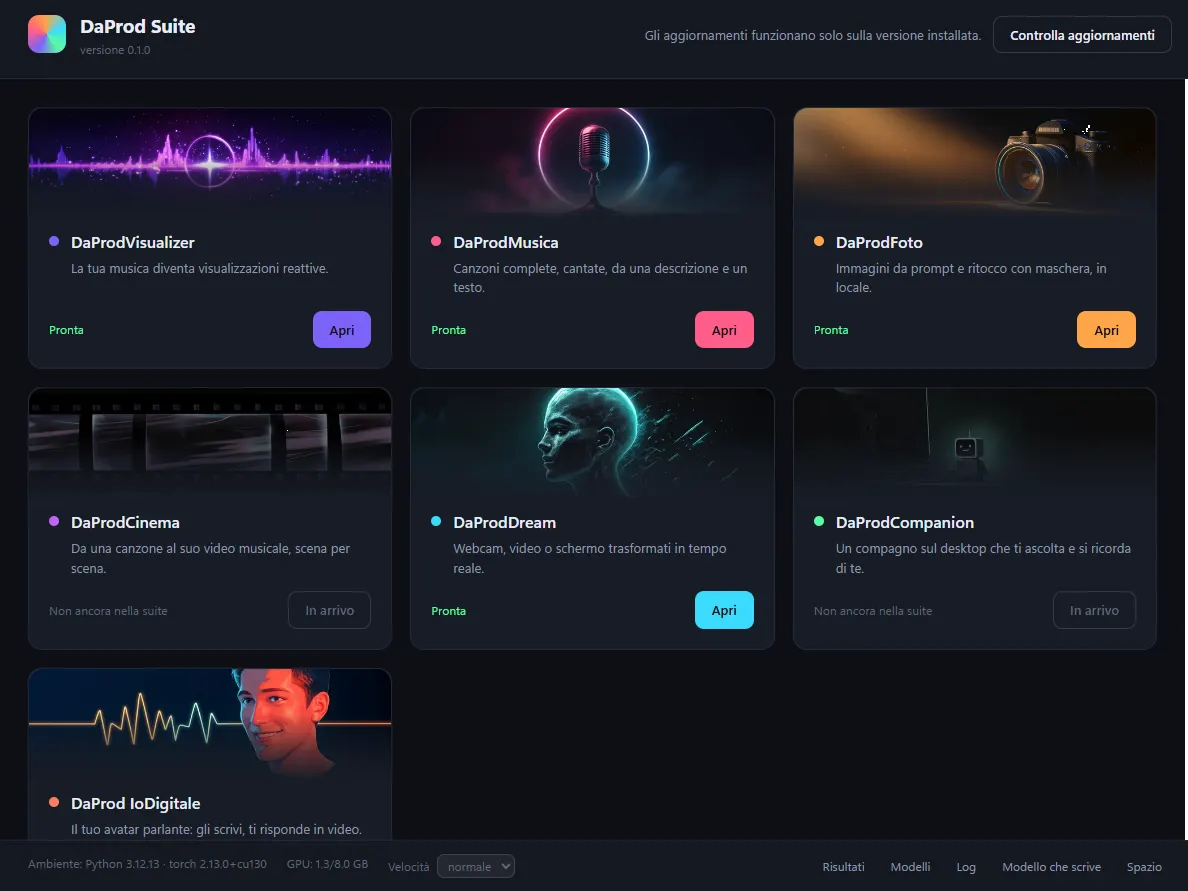
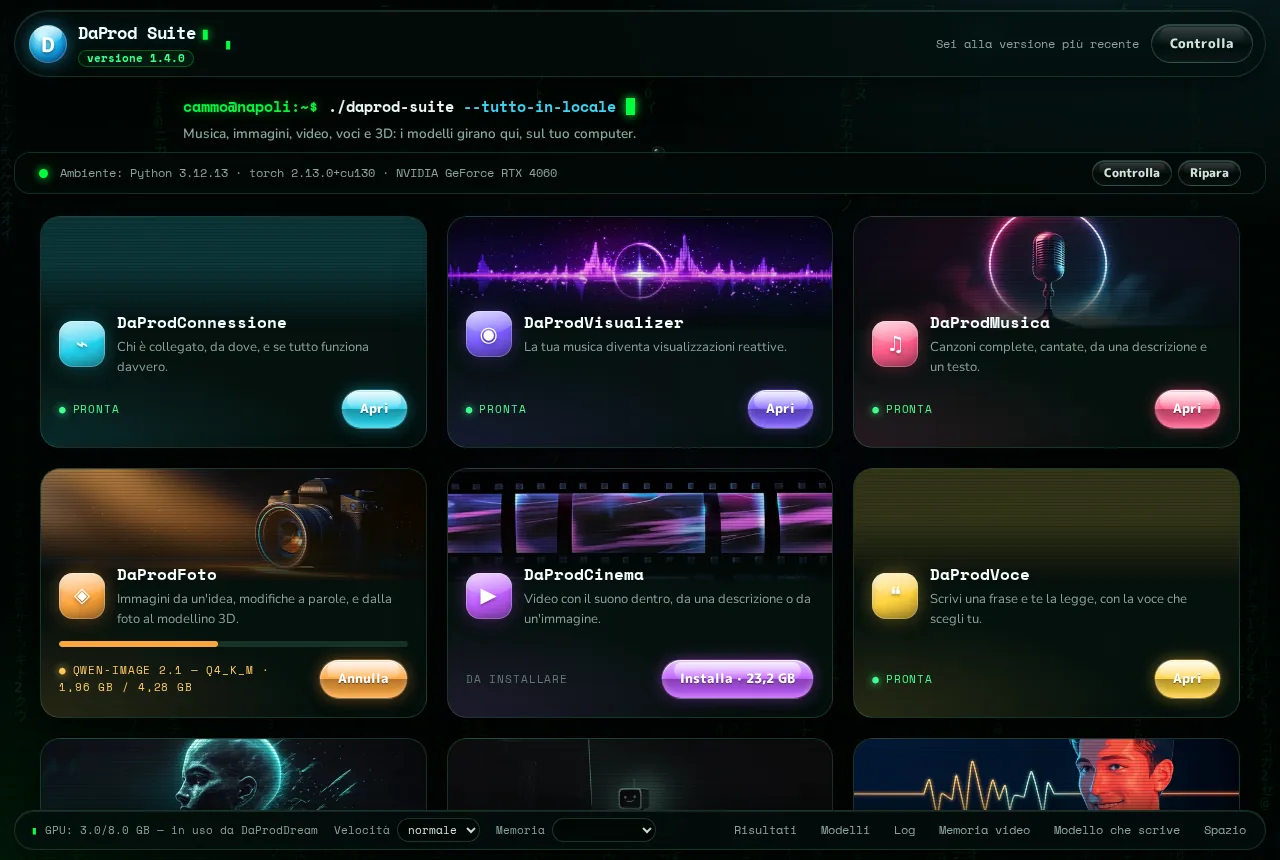
DaProd Suite 1.4.0 e la Lira DaProd nella Sala Slot
- Suite: v1.4.0, il remake col vestito DaProd, Qwen-Image 2.1, YuE2,
  TRELLIS.2 e la sala giochi con la Lira; foto nuova dell'hub e quella
  della sala giochi in galleria
- Sala Slot: la Lira DaProd, un portafoglio solo per i tre cabinati;
  Coin Dozer 2.2, Claw Machine 1.1, Neon Partenope 2.1
- README allineato

Claude-Session: https://claude.ai/code/session_01Ko7dbB5kLu9aKqKQpJxzkq

diff --git a/index.html b/index.html
@@ -79,11 +79,11 @@
     <!-- gadget stile Vista -->
     <aside class="gadget glass" aria-label="Sul banco adesso">
       <div class="gadget-bar"><i></i> sul banco adesso</div>
-      <a href="#p-suite" class="g-row"><span class="ico sm i-suite"><i class="fas fa-wand-magic-sparkles"></i></span><span><b>DaProd Suite</b><small>app AI in locale · 1.3.9</small></span><em class="led on"></em></a>
+      <a href="#p-suite" class="g-row"><span class="ico sm i-suite"><i class="fas fa-wand-magic-sparkles"></i></span><span><b>DaProd Suite</b><small>il remake · 1.4.0</small></span><em class="led new"></em></a>
       <a href="#p-video" class="g-row"><span class="ico sm i-video"><i class="fas fa-film"></i></span><span><b>DaProd Video</b><small>banco di montaggio · nuovo</small></span><em class="led new"></em></a>
       <a href="#p-finanza" class="g-row"><span class="ico sm i-fin"><i class="fas fa-chart-line"></i></span><span><b>DaProdFinanza</b><small>controllo di gestione · 1.4.0</small></span><em class="led on"></em></a>
-      <a href="#p-claw" class="g-row"><span class="ico sm i-claw"><i class="fas fa-gift"></i></span><span><b>Claw Machine</b><small>il remake · la Grande Vasca</small></span><em class="led new"></em></a>
-      <a href="#p-neon" class="g-row"><span class="ico sm i-neon"><i class="fas fa-volcano"></i></span><span><b>Neon Partenope</b><small>clicker cyberpunk · 2.0</small></span><em class="led on"></em></a>
+      <a href="#p-claw" class="g-row"><span class="ico sm i-claw"><i class="fas fa-gift"></i></span><span><b>Claw Machine</b><small>la Grande Vasca · 1.1</small></span><em class="led new"></em></a>
+      <a href="#p-neon" class="g-row"><span class="ico sm i-neon"><i class="fas fa-volcano"></i></span><span><b>Neon Partenope</b><small>clicker cyberpunk · 2.1</small></span><em class="led on"></em></a>
     </aside>
   </div>
   <div class="grass" aria-hidden="true"></div>
@@ -266,16 +266,17 @@
         <div class="feat-top">
           <span class="ico i-suite"><i class="fas fa-wand-magic-sparkles"></i></span>
           <div>
-            <p class="cab-tag">l'ammiraglia &middot; v1.3.9</p>
+            <p class="cab-tag">l'ammiraglia &middot; v1.4.0</p>
             <h3>DaProd Suite</h3>
             <p class="chips"><span>Windows</span><span>Android</span><span>Electron</span><span>MIT</span></p>
           </div>
         </div>
-        <p>I migliori modelli AI, provati e scelti, pronti in due clic. Un programma solo per fare <b>canzoni</b>, <b>immagini</b>, <b>video col suono</b>, <b>voci</b> e parlare con un <b>avatar</b>. Ogni app la installi quando ti serve e la togli quando non serve più.</p>
+        <p>I migliori modelli AI, provati e scelti, pronti in due clic. Un programma solo per fare <b>canzoni</b>, <b>immagini</b>, <b>modellini 3D</b>, <b>video col suono</b>, <b>voci</b> e parlare con un <b>avatar</b>. Ogni app la installi quando ti serve e la togli quando non serve più. Con la 1.4.0 l'ho rifatta da capo col vestito DaProd.</p>
         <ul class="feats">
           <li><i class="fas fa-box"></i> <span><b>Un ambiente solo</b>: Python e PyTorch installati una volta, 4 GB invece di 14,7</span></li>
           <li><i class="fas fa-microchip"></i> <span><b>Una GPU sola</b>: la suite spegne il modello di prima invece di farti finire in out-of-memory</span></li>
-          <li><i class="fas fa-mobile-screen"></i> <span>Dal <b>telefono</b> produci, guardi la fila e la galleria, anche fuori casa. C'è pure la <b>sala giochi</b></span></li>
+          <li><i class="fas fa-image"></i> <span><b>Qwen-Image 2.1</b> per creare e modificare le foto, <b>YuE2</b> che canta, <b>TRELLIS.2</b> che da una foto fa un modellino 3D con la texture</span></li>
+          <li><i class="fas fa-mobile-screen"></i> <span>Dal <b>telefono</b> produci, guardi la fila e la galleria, anche fuori casa. E c'è la <b>sala giochi</b>: la slot delle combinazioni e i tre cabinati, con la <b>Lira DaProd</b> che sale e scende in Borsa</span></li>
         </ul>
         <div class="btns">
           <a href="https://github.com/cammo22/DaProdSuite/releases/latest" target="_blank" rel="noopener" class="aqua orange"><i class="fas fa-download"></i> Scarica</a>
@@ -286,10 +287,11 @@
       <div class="show">
         <figure class="win">
           <div class="win-bar"><span class="win-t">DaProd Suite</span><i class="win-b"></i><i class="win-b"></i><i class="win-b x"></i></div>
-          <img class="shot" src="img/progetti/suite-hub.webp" alt="La home di DaProd Suite con le app affiancate: Visualizer, Musica, Foto, Cinema, Dream, Companion, IoDigitale" loading="lazy" width="1188" height="891">
+          <img class="shot" src="img/progetti/suite-hub.webp" alt="La home di DaProd Suite 1.4.0: vetro scuro, pioggia verde e le app affiancate, Foto che scarica Qwen-Image 2.1" loading="lazy" width="1280" height="860">
         </figure>
         <div class="thumbs">
           <button class="thumb on" data-src="img/progetti/suite-hub.webp" data-alt="La home di DaProd Suite con le app affiancate" data-t="DaProd Suite" aria-label="Screenshot: la home della suite"><img src="img/progetti/suite-hub.webp" alt="" loading="lazy"></button>
+          <button class="thumb" data-src="img/progetti/suite-sala.webp" data-alt="Neon Partenope dentro la sala giochi della suite, col portafoglio delle Lire DaProd in basso" data-t="DaProd Suite · sala giochi" aria-label="Screenshot: la sala giochi"><img src="img/progetti/suite-sala.webp" alt="" loading="lazy"></button>
           <button class="thumb" data-src="img/progetti/suite-sito.webp" data-alt="Il sito di DaProd Suite: I migliori modelli AI, selezionati per te" data-t="cammo22.github.io/DaProdSuite" aria-label="Screenshot: il sito"><img src="img/progetti/suite-sito.webp" alt="" loading="lazy"></button>
         </div>
         <figure class="phone" aria-hidden="true"><img src="img/progetti/suite-telefono.webp" alt="" loading="lazy" width="520" height="1125"></figure>
@@ -415,6 +417,7 @@
       <p class="kicker">// 03 &mdash; divisione 02 &middot; DaProd Giochi</p>
       <h2>Sala Slot DaProd</h2>
       <p>La mia sala giochi. Partono tutti nel browser, anche dal telefono, e i tre cabinati hanno anche l&rsquo;app per Android, Windows e Mac. Non c'è pubblicità. Si gioca con le lire, <b>1 € = 1.936,27 ₤</b>, e le lire non si pagano con soldi veri.</p>
+      <p>E adesso c'è la <b>Lira DaProd</b>: un portafoglio solo per i tre cabinati. Giochi, fai punti, e quando vuoi smettere <b>stacchi</b>: i punti diventano lire alla quotazione della <b>Borsa</b>, che sale quando la gente spende e scende quando incassa. Con le lire ricarichi in qualunque cabinato, e il giorno dopo si ricomincia. Dentro la DaProd Suite gli stessi giochi danno anche le carte per la slot delle combinazioni.</p>
     </div>
 
     <!-- COIN DOZER -->
@@ -432,7 +435,7 @@
         <figure class="phone" aria-hidden="true"><img src="img/giochi/coin-dozer-mobile.webp" alt="" loading="lazy" width="520" height="1125"></figure>
       </div>
       <div class="cab-info">
-        <p class="cab-tag">cabinato 01 &middot; spingimonete &middot; v2.1</p>
+        <p class="cab-tag">cabinato 01 &middot; spingimonete &middot; v2.2</p>
         <h3>Coin Dozer</h3>
         <p class="chips"><span>Three.js</span><span>un solo file</span><span>Android &middot; Win &middot; Mac</span></p>
         <p>Una macchina a <b>tre piani</b> con tre spintori. Scegli la moneta e la colonna, e la moneta scende di piano in piano fino alla vasca delle vincite. Quello che finisce nei buchi laterali va alla casa.</p>
@@ -467,7 +470,7 @@
         <figure class="phone" aria-hidden="true"><img src="img/giochi/claw-telefono.webp" alt="" loading="lazy" width="390" height="844"></figure>
       </div>
       <div class="cab-info">
-        <p class="cab-tag">cabinato 02 &middot; il remake &middot; v1.0</p>
+        <p class="cab-tag">cabinato 02 &middot; il remake &middot; v1.1</p>
         <h3>Claw Machine</h3>
         <p class="chips"><span>Three.js</span><span>5 zone</span><span>20 modellini</span><span>Android &middot; Win &middot; Mac</span></p>
         <p>Rifatta da zero: una <b>Grande Vasca a cinque zone</b> con un carroponte gigante, dal Peluche Park al Caveau dei Tesori. Prendi i modellini 3D, mettili in vetrina e potenziali grado dopo grado.</p>
@@ -502,7 +505,7 @@
         <figure class="phone" aria-hidden="true"><img src="img/giochi/neon-telefono.webp" alt="" loading="lazy" width="520" height="1125"></figure>
       </div>
       <div class="cab-info">
-        <p class="cab-tag">cabinato 03 &middot; clicker cyberpunk &middot; v2.0</p>
+        <p class="cab-tag">cabinato 03 &middot; clicker cyberpunk &middot; v2.1</p>
         <h3>Neon Partenope</h3>
         <p class="chips"><span>zero dipendenze</span><span>Web Audio</span><span>Android &middot; Win &middot; Mac</span></p>
         <p><b>Napoli, 2099. Il Vesuvio è diventato un server. La sirena è in gabbia. Tu sei fatto di rottami.</b> Sei Ferro Vecchio, un robot riacceso nel garage DaProd di Ponticelli, e scendi stanza dopo stanza fino al cratere per liberare Partenope.</p>

diff --git a/README.md b/README.md
@@ -73,10 +73,10 @@ quello che ci stiamo costruendo intorno.
 <td width="50%" valign="top">
 <a href="https://github.com/cammo22/DaProdSuite"><img src="img/progetti/suite-hub.webp" alt="La home di DaProd Suite"></a>
 
-### 🪄 DaProd Suite · 1.3.9
-I migliori modelli AI, pronti in due clic: canzoni, immagini, video col suono, voci, un avatar
-che ti risponde. Un ambiente solo, una GPU gestita un modello per volta, e dal telefono vedi la fila.
-Niente account né chiavi API.
+### 🪄 DaProd Suite · 1.4.0
+I migliori modelli AI, pronti in due clic: canzoni (ACE-Step, YuE2), immagini create e modificate
+con Qwen-Image 2.1, modellini 3D da una foto (TRELLIS.2), video col suono, voci, un avatar che ti
+risponde. Rifatta col vestito DaProd, con la sala giochi e la Lira DaProd dentro. Niente account né chiavi API.
 
 [⬇ Scarica](https://github.com/cammo22/DaProdSuite/releases/latest) · [🌐 Sito](https://cammo22.github.io/DaProdSuite/) · [codice](https://github.com/cammo22/DaProdSuite)
 </td>
@@ -114,6 +114,10 @@ lancetta, tendine SMPTE, EDL. **1** taglia, **2** elimina. Windows, Mac, Android
 
 La Sala Slot. Tutti partono nel browser, anche dal telefono, e i tre cabinati hanno anche
 l'app per Android, Windows e Mac. Non c'è pubblicità. Si gioca con le lire, **1 € = 1.936,27 ₤**.
+
+**La Lira DaProd** è il portafoglio unico dei tre cabinati: giochi, fai punti, e quando smetti
+**stacchi** — i punti diventano lire alla quotazione della Borsa, che sale quando si spende e scende
+quando si incassa. Con le lire ricarichi in qualunque cabinato.
 
 <table>
 <tr>
